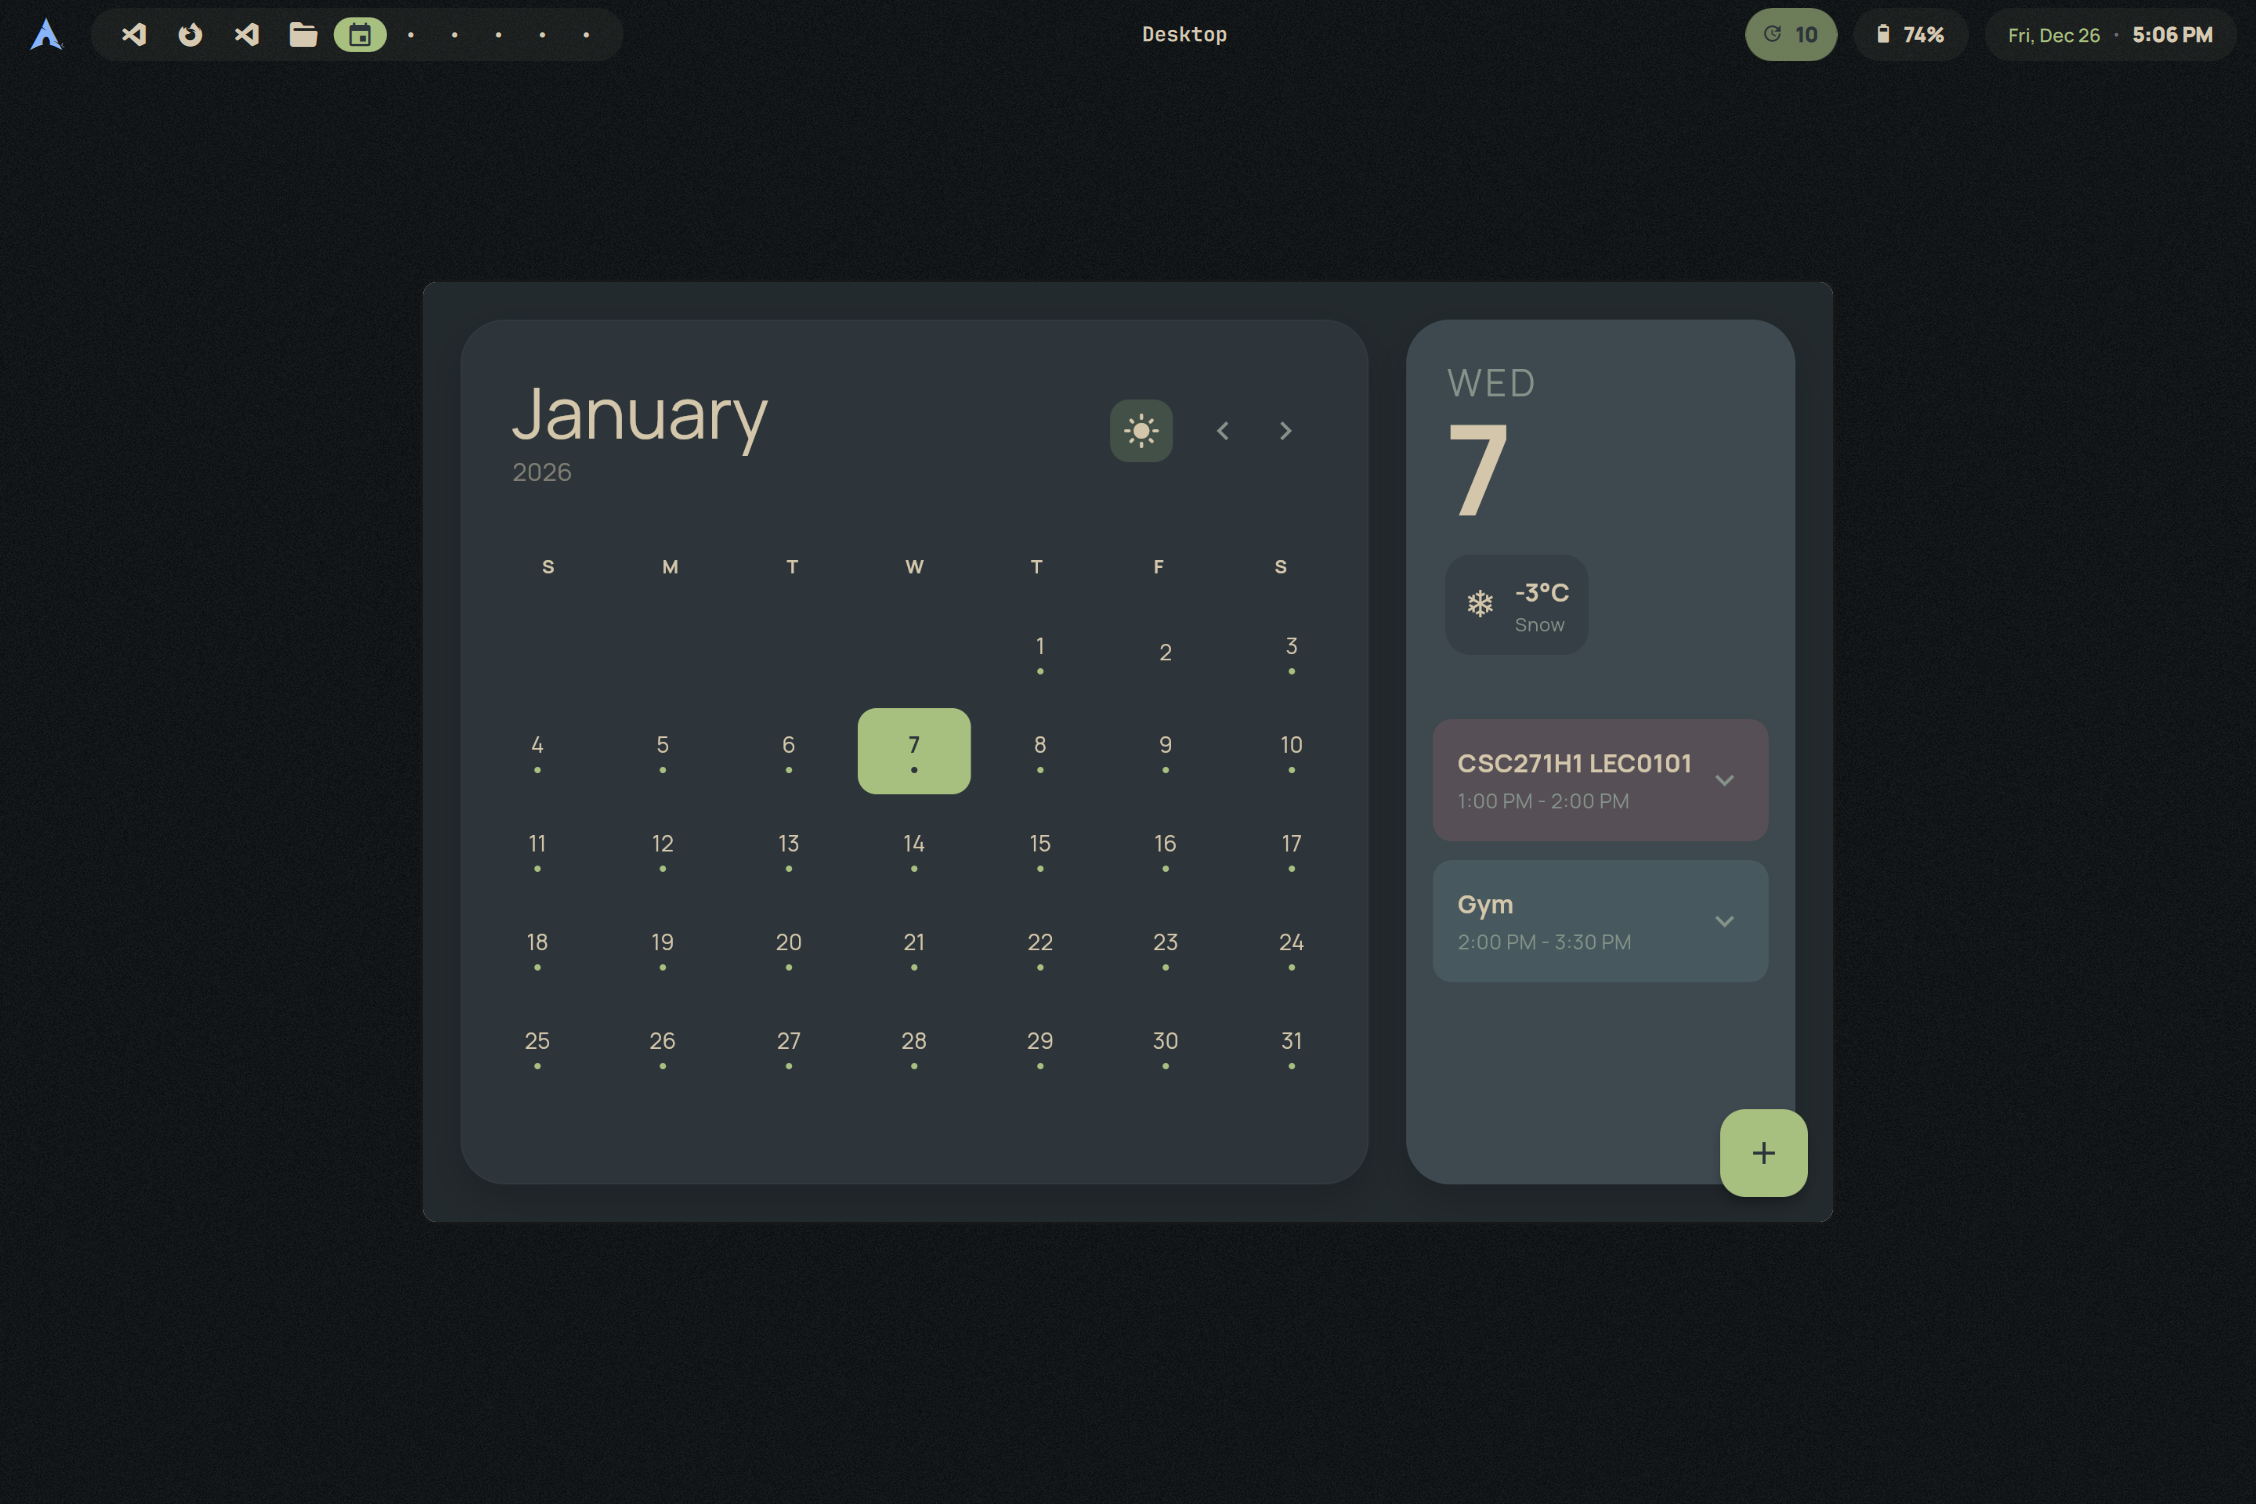
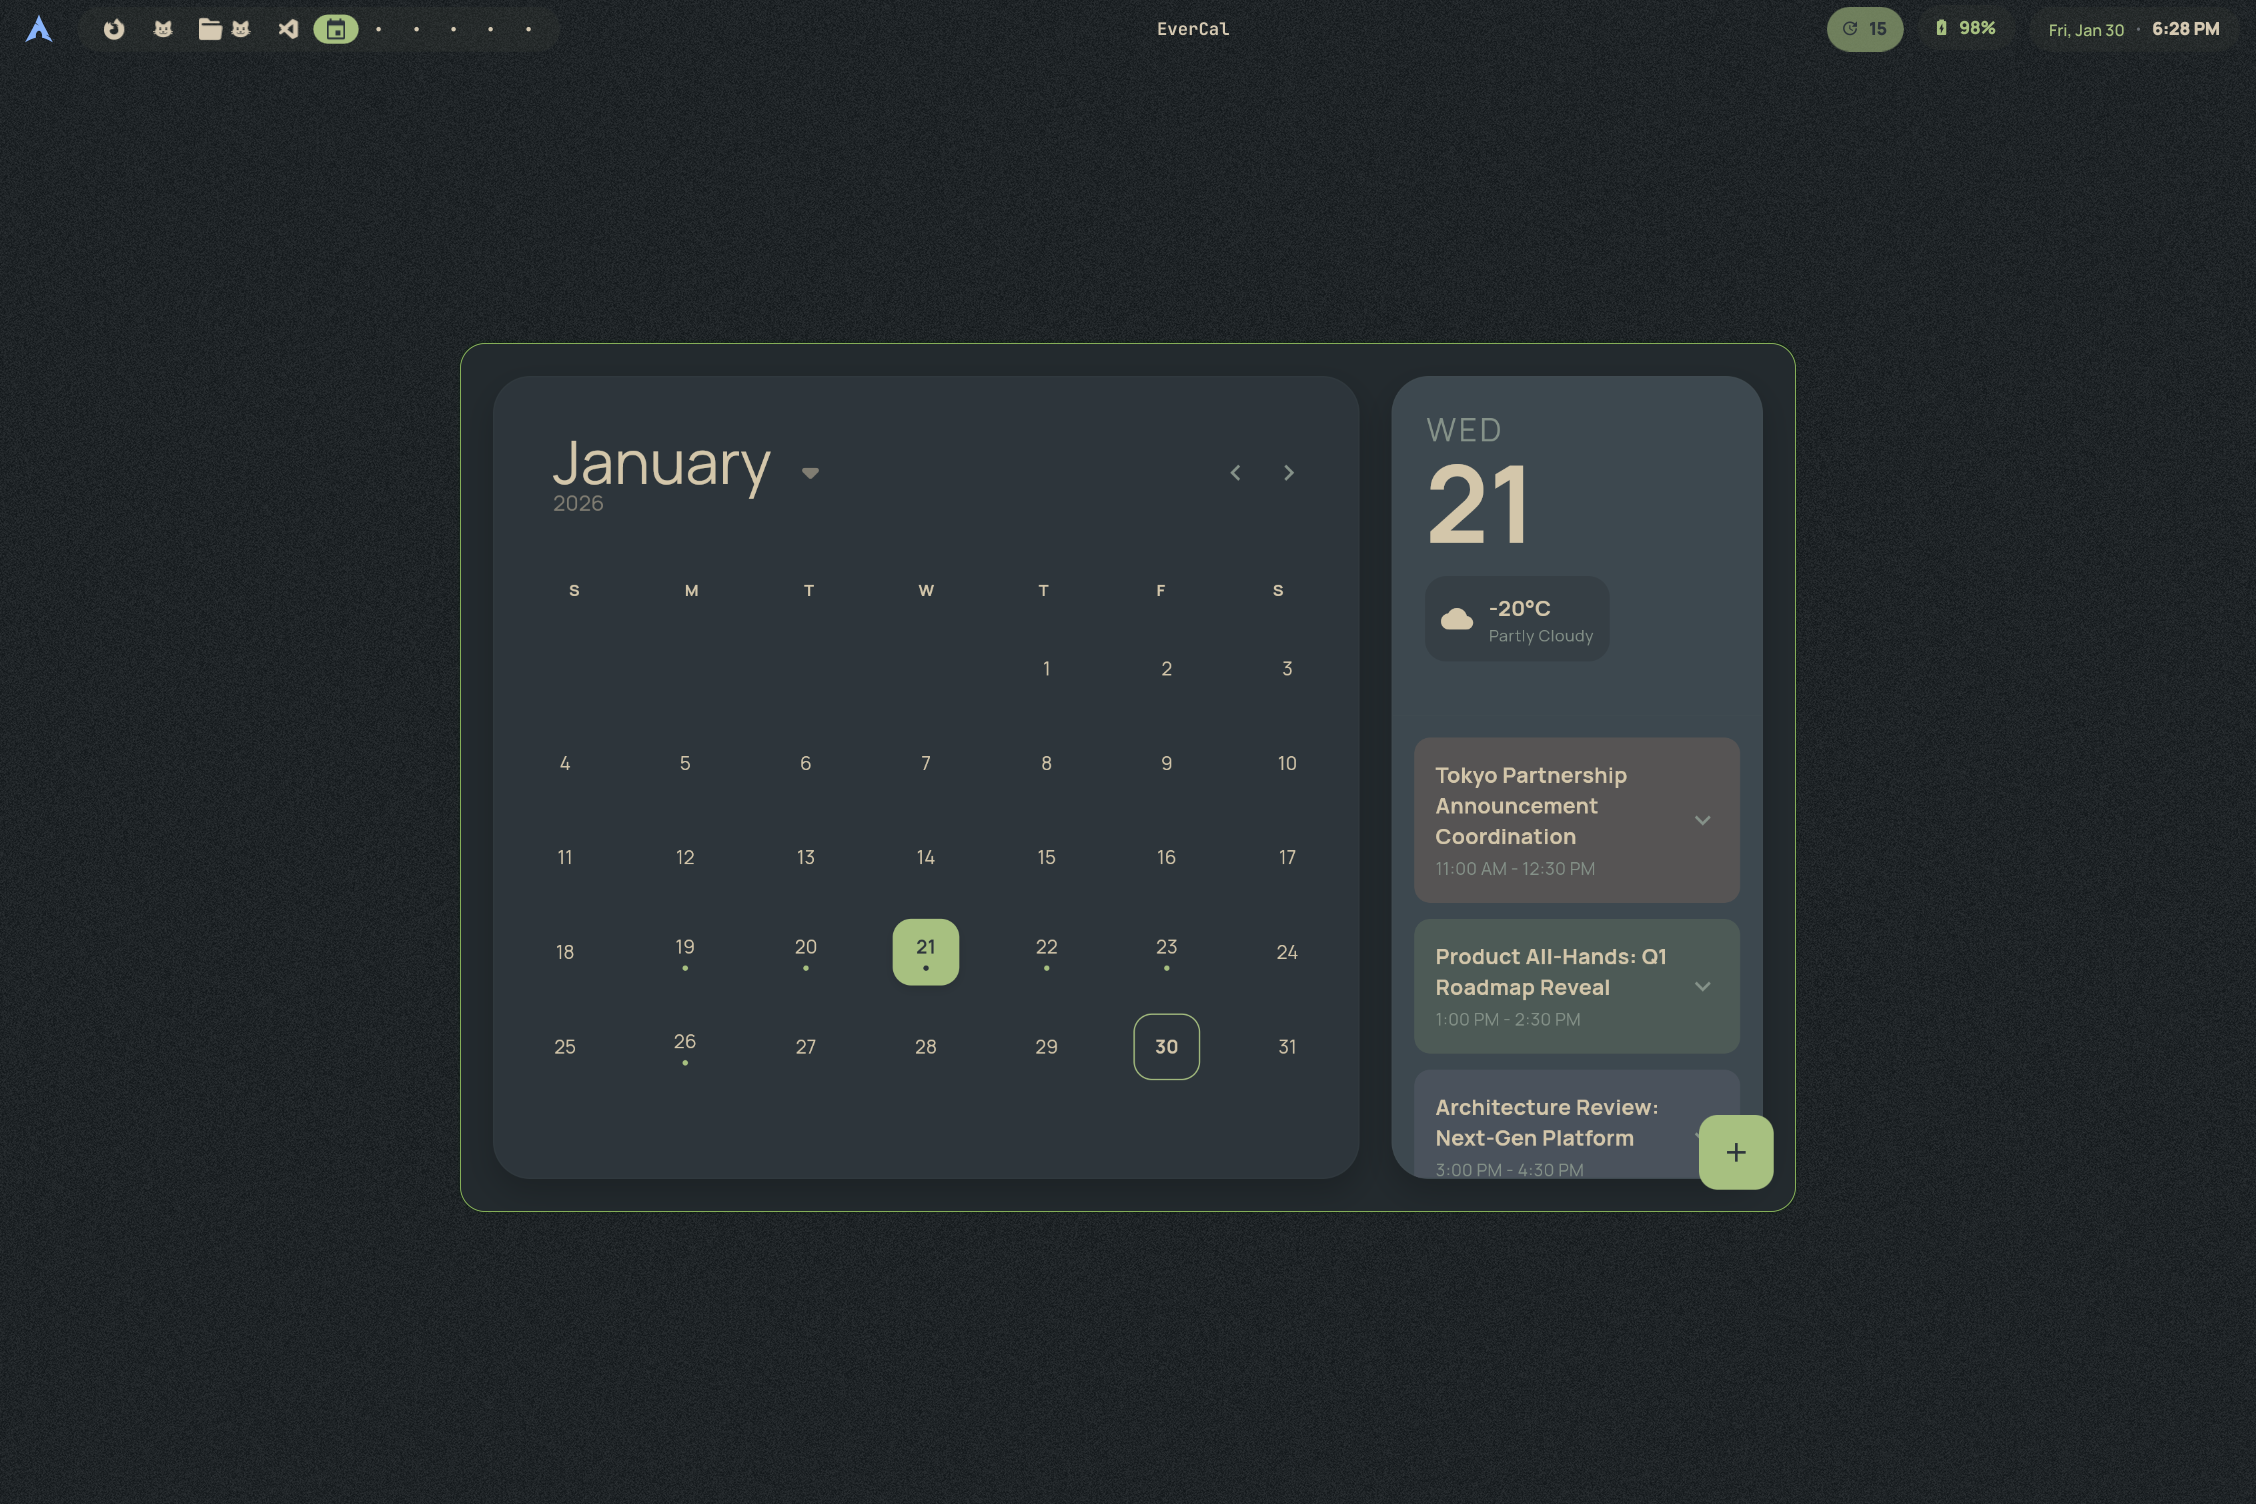
update readme

diff --git a/README.md b/README.md
@@ -6,26 +6,58 @@ I built this because I wanted a functional calendar that actually looked good on
 
 _[Evercal now has a weekview mode]_
 
-## Screenshot
+## Screenshots
 
-<p align="center">
-  <img src="screenshpts/ss.png" width="50%" />
-</p>
+<table align="center">
+  <tr>
+    <th colspan="2">Week View</th>
+  </tr>
+  <tr>
+    <td><img src="screenshots/v3_1.png" width="100%" /></td>
+    <td><img src="screenshots/v3_2.png" width="100%" /></td>
+  </tr>
+  <tr>
+    <th colspan="2">Month View</th>
+  </tr>
+  <tr>
+    <td><img src="screenshots/DARK.png" width="100%" /></td>
+    <td><img src="screenshots/LIGHT.png" width="100%" /></td>
+  </tr>
+</table>
 
 ## Features
 
-- **Clean UI:** Minimalist design that fits into any workflow.
-- **Theme Support:** Built-in Light and Dark modes.
-- **Tiling Friendly:** Zero-client-side decorations. It relies on the window manager for borders, making it look native on Hyprland, Sway, or other compositors.
+- **Clean UI:** Minimalist design with Material 3/Expressive UI guidelines
+- **Manual Events:** Create events directly inside EverCal.
+- **ICS Import:** Import `.ics` calendars from Google Calendar, Outlook, or anywhere else.
+- **Khal / vdir Support (Optional):** Read events from your local vdir calendars via `khal`
+- **Theme Support:** Built-in Light and Dark modes. Also supports a global theme state and updates instantly when your system/theme changes.
+- **WM + DE Friendly:**
+  - **WM mode:** no titlebar/client decorations (border handled by the compositor).
+  - **DE mode:** proper titlebar included for environments like KDE/GNOME.
 
 ## Installation
 
-1.  Download `EverCal-Linux-Installer.tar.gz` from the [Releases](https://github.com/snes19xx/EverCal/releases) page.
-2.  Extract the archive and run the installer script:
+[![AUR version](https://img.shields.io/aur/version/evercal?logo=arch-linux&style=flat-square&color=blue)](https://aur.archlinux.org/packages/evercal)
+
+### Arch Linux (AUR)
+
+EverCal is now available to install directly from the [AUR](https://aur.archlinux.org/packages/evercal):
 
 ```bash
-tar -xzvf EverCal-Linux-Installer.tar.gz
-cd EverCal_Installer
-sudo ./install.sh
+yay -S evercal
+```
 
+### Manual Installation
+
+1.  Download `installer.tar.gz` from the [Releases](https://github.com/snes19xx/EverCal/releases) page.
+2.  Extract the archive
+3.  Run the script based on your needs, `install_wm.sh` if you don't want titlebar (wm mode) or `install_b.sh` if you want titlebar (gnome/kde)
+
+eg:
+
+```bash
+tar -xzvf installer.tar.gz
+cd installer
+sudo ./install_Wm.sh
 ```